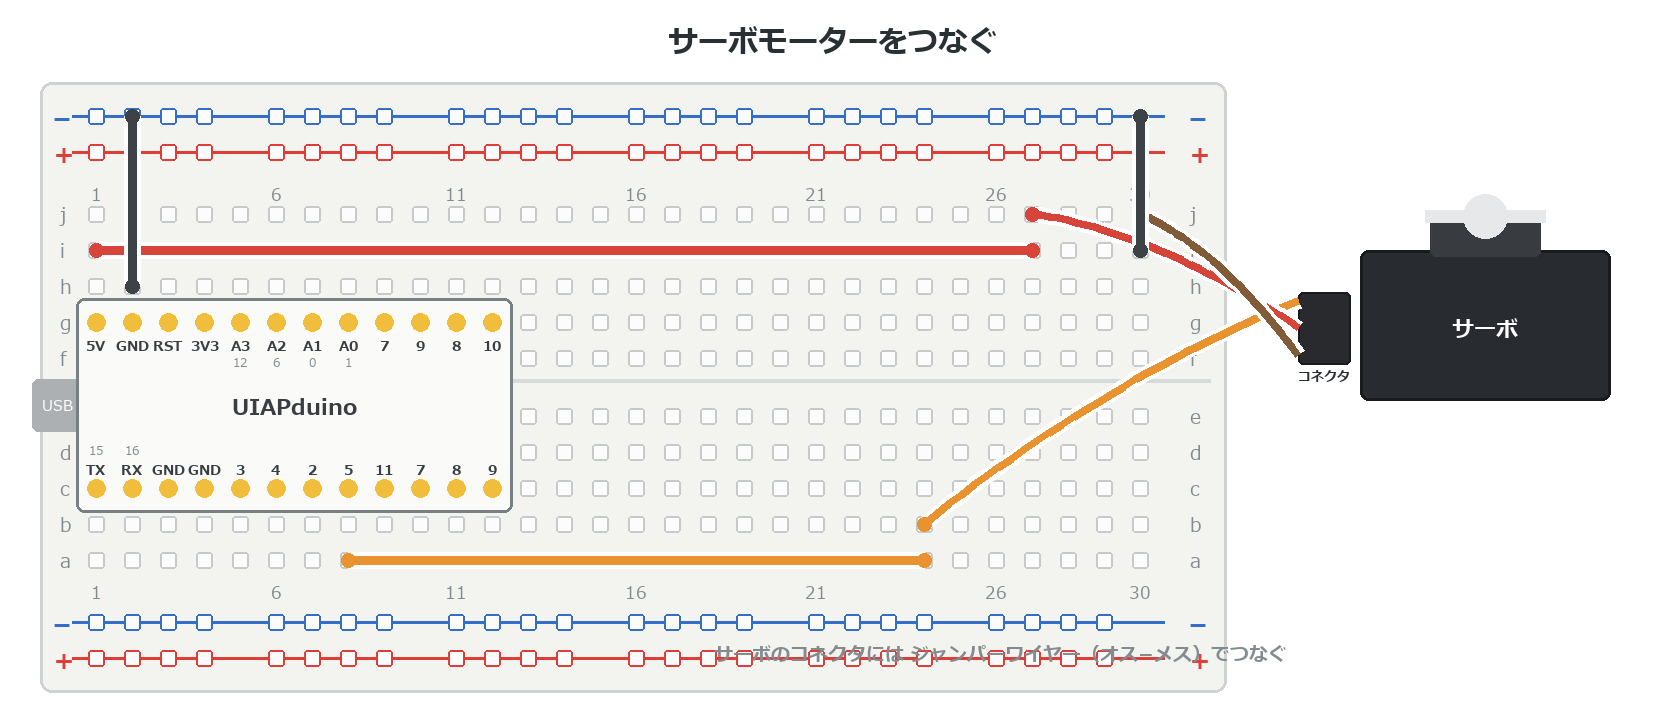
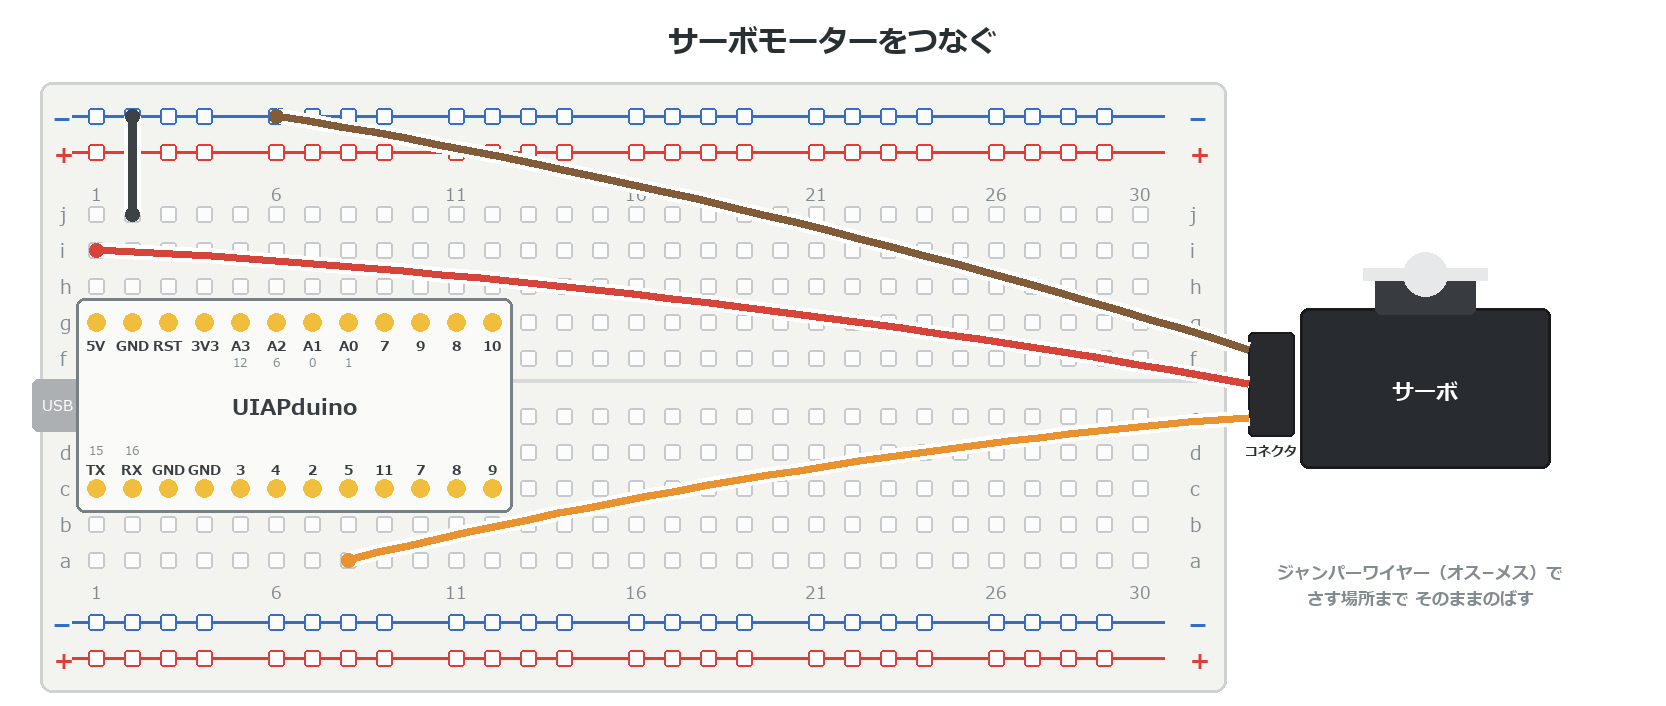
e4 のサーボを 空中配線（直接つなぐ）に変更
ジャンパーワイヤー（オス−メス）でつなぐので、途中でブレッドボードを
経由させる必要がなかった。以前は 24・27・30列 にいったん挿してから
3本のジャンパーでマイコンまで引いており、手順が無駄に多かった。

変更後は 3本とも さす場所まで そのままのばす:
- 茶（GND）… 上の −レールへ
- 赤（5V） … 1列の i行（5V ピンと同じ列）へ
- 橙（信号）… 8列の a行（5番ピンと同じ列）へ

ブレッドボードに必要なジャンパーは **マイコンの GND → −レール の1本だけ**。
配線の本数が 6本 → 4本 に減った。

線の高さを調整して、3本ともマイコンの上下をよけるようにした。
（以前の位置だと 赤と橙 がマイコンのピン名を隠していた）

diff --git a/docs/e4_servo/index.html b/docs/e4_servo/index.html
@@ -84,7 +84,7 @@
 
 :::
 
-![茶＝GND、赤＝5V、橙＝5番ピン](image/index/bb_servo.png)
+![3本とも、さす場所まで そのままのばす。GND だけ −レールを使う](image/index/bb_servo.png)
 
 ---
 

diff --git a/content/e4_servo/index.md b/content/e4_servo/index.md
@@ -71,7 +71,7 @@ wip: 写真まち
 
 :::
 
-![茶＝GND、赤＝5V、橙＝5番ピン](image/index/bb_servo.png)
+![3本とも、さす場所まで そのままのばす。GND だけ −レールを使う](image/index/bb_servo.png)
 
 ---
 
